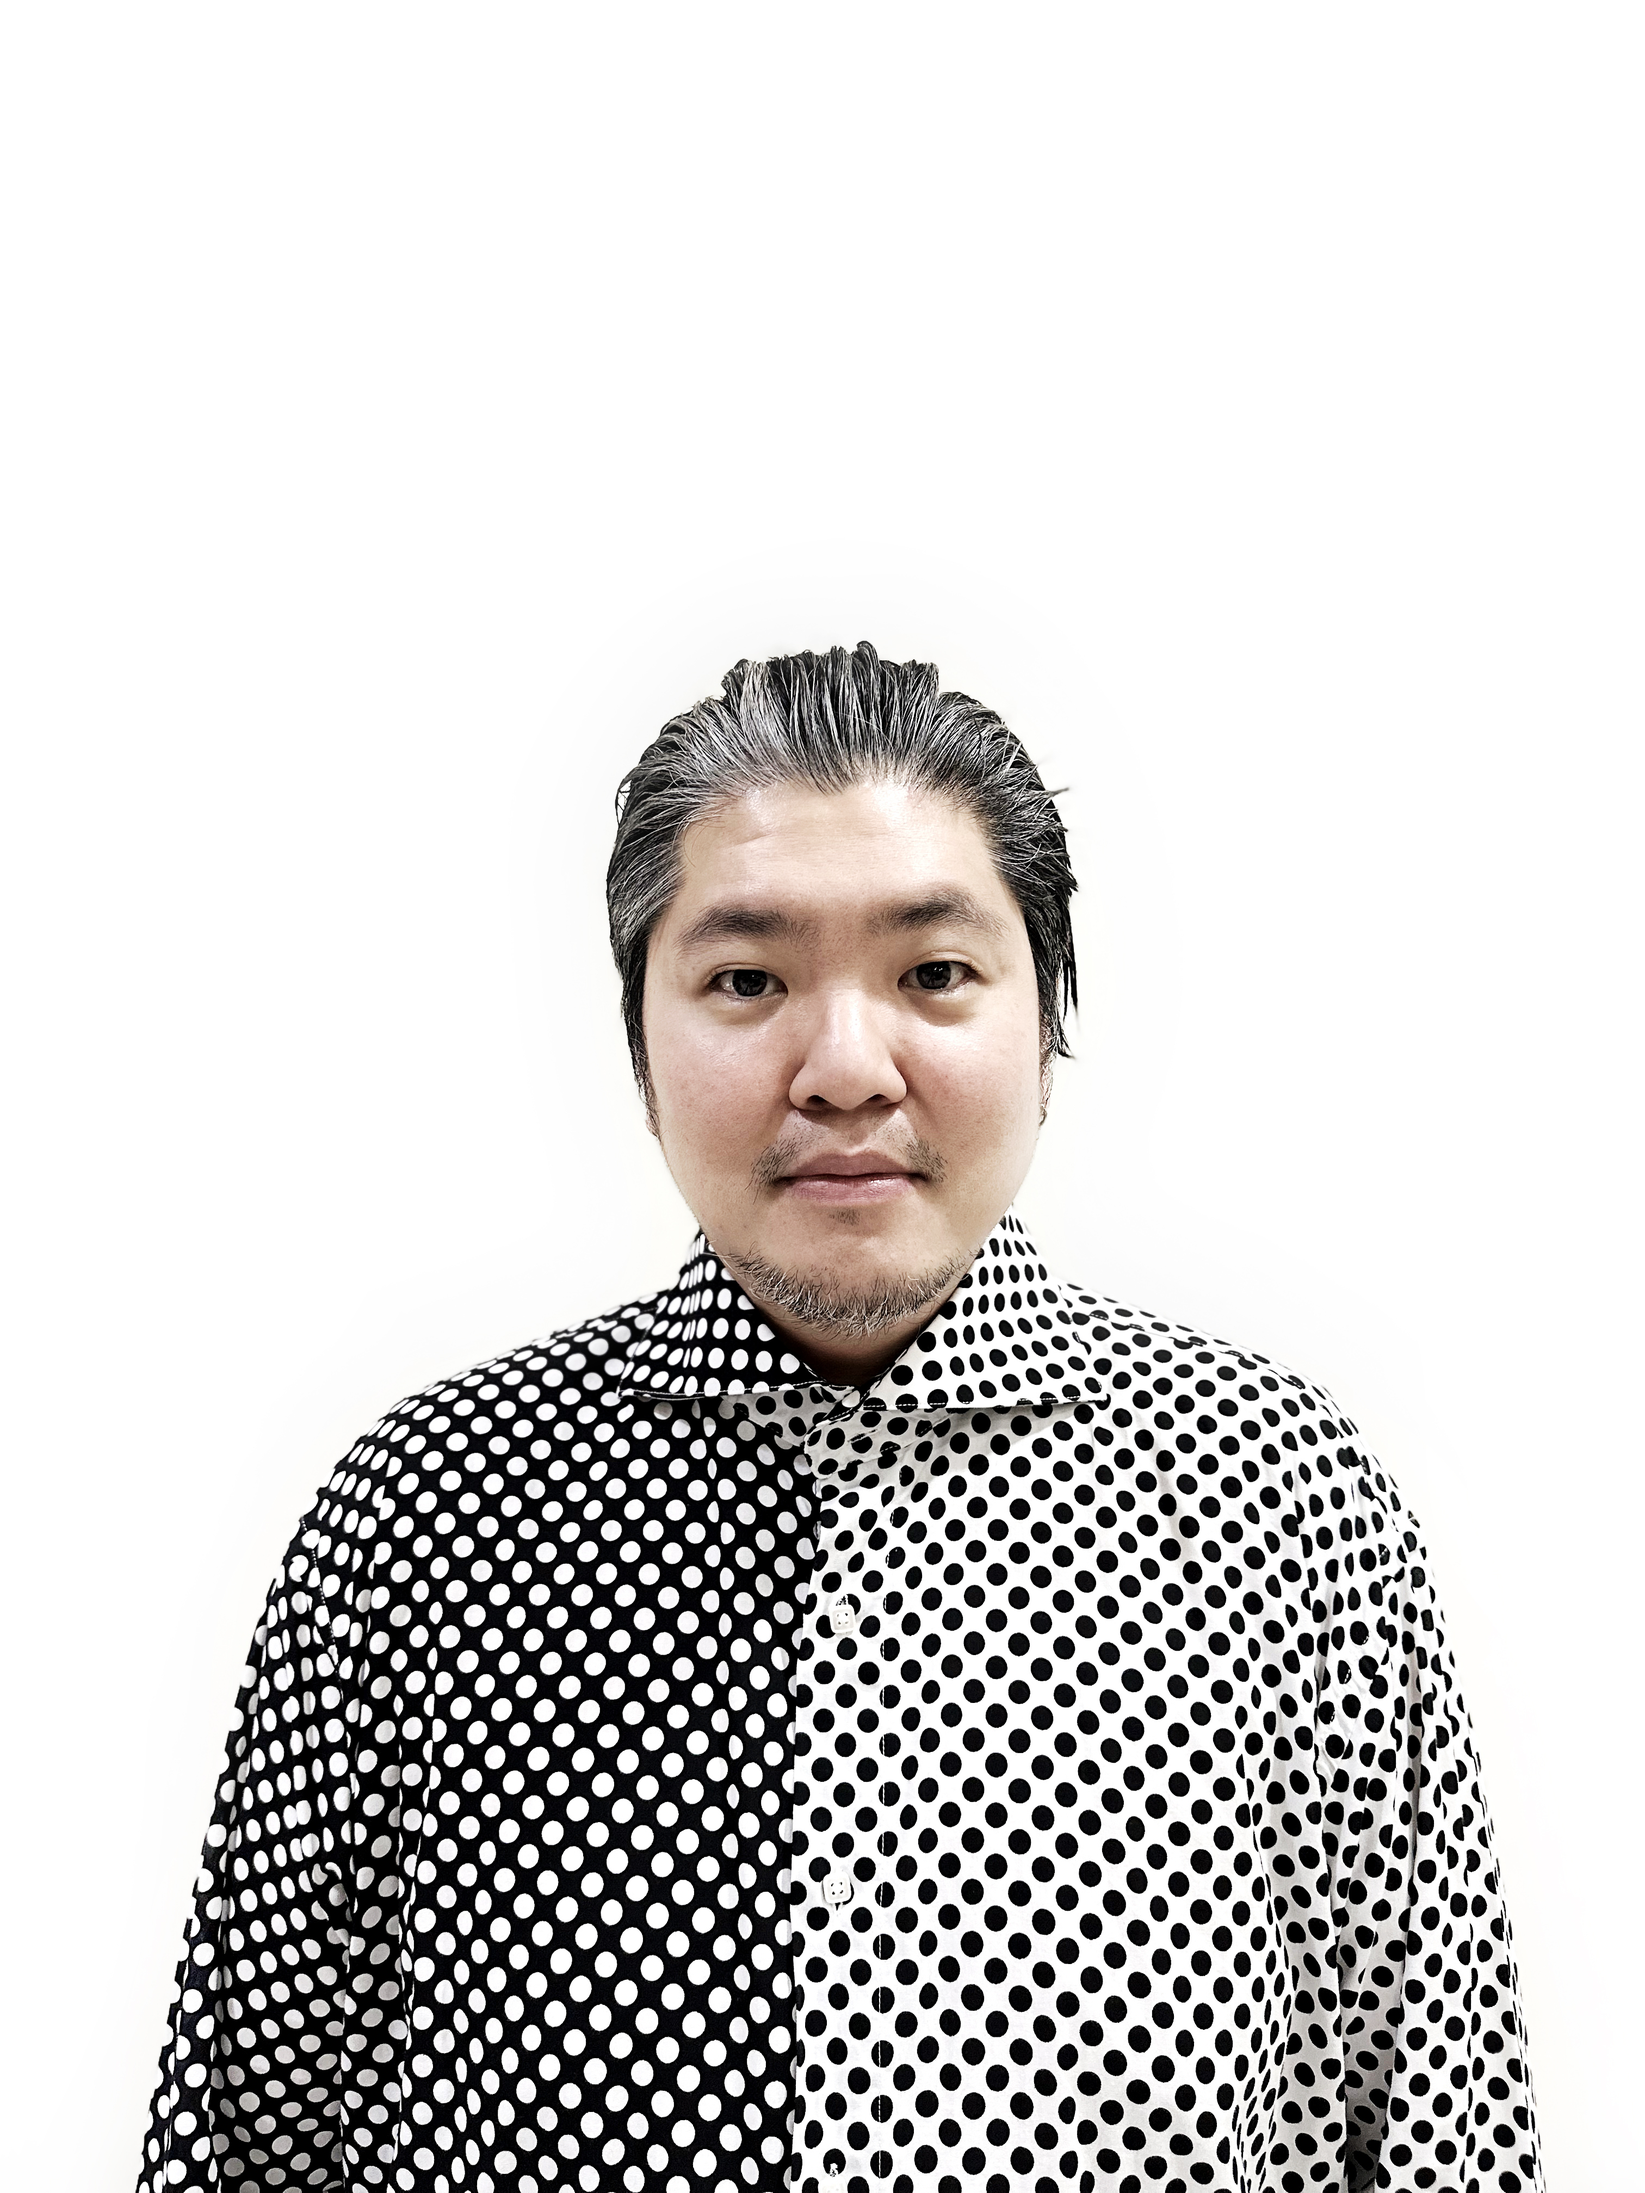
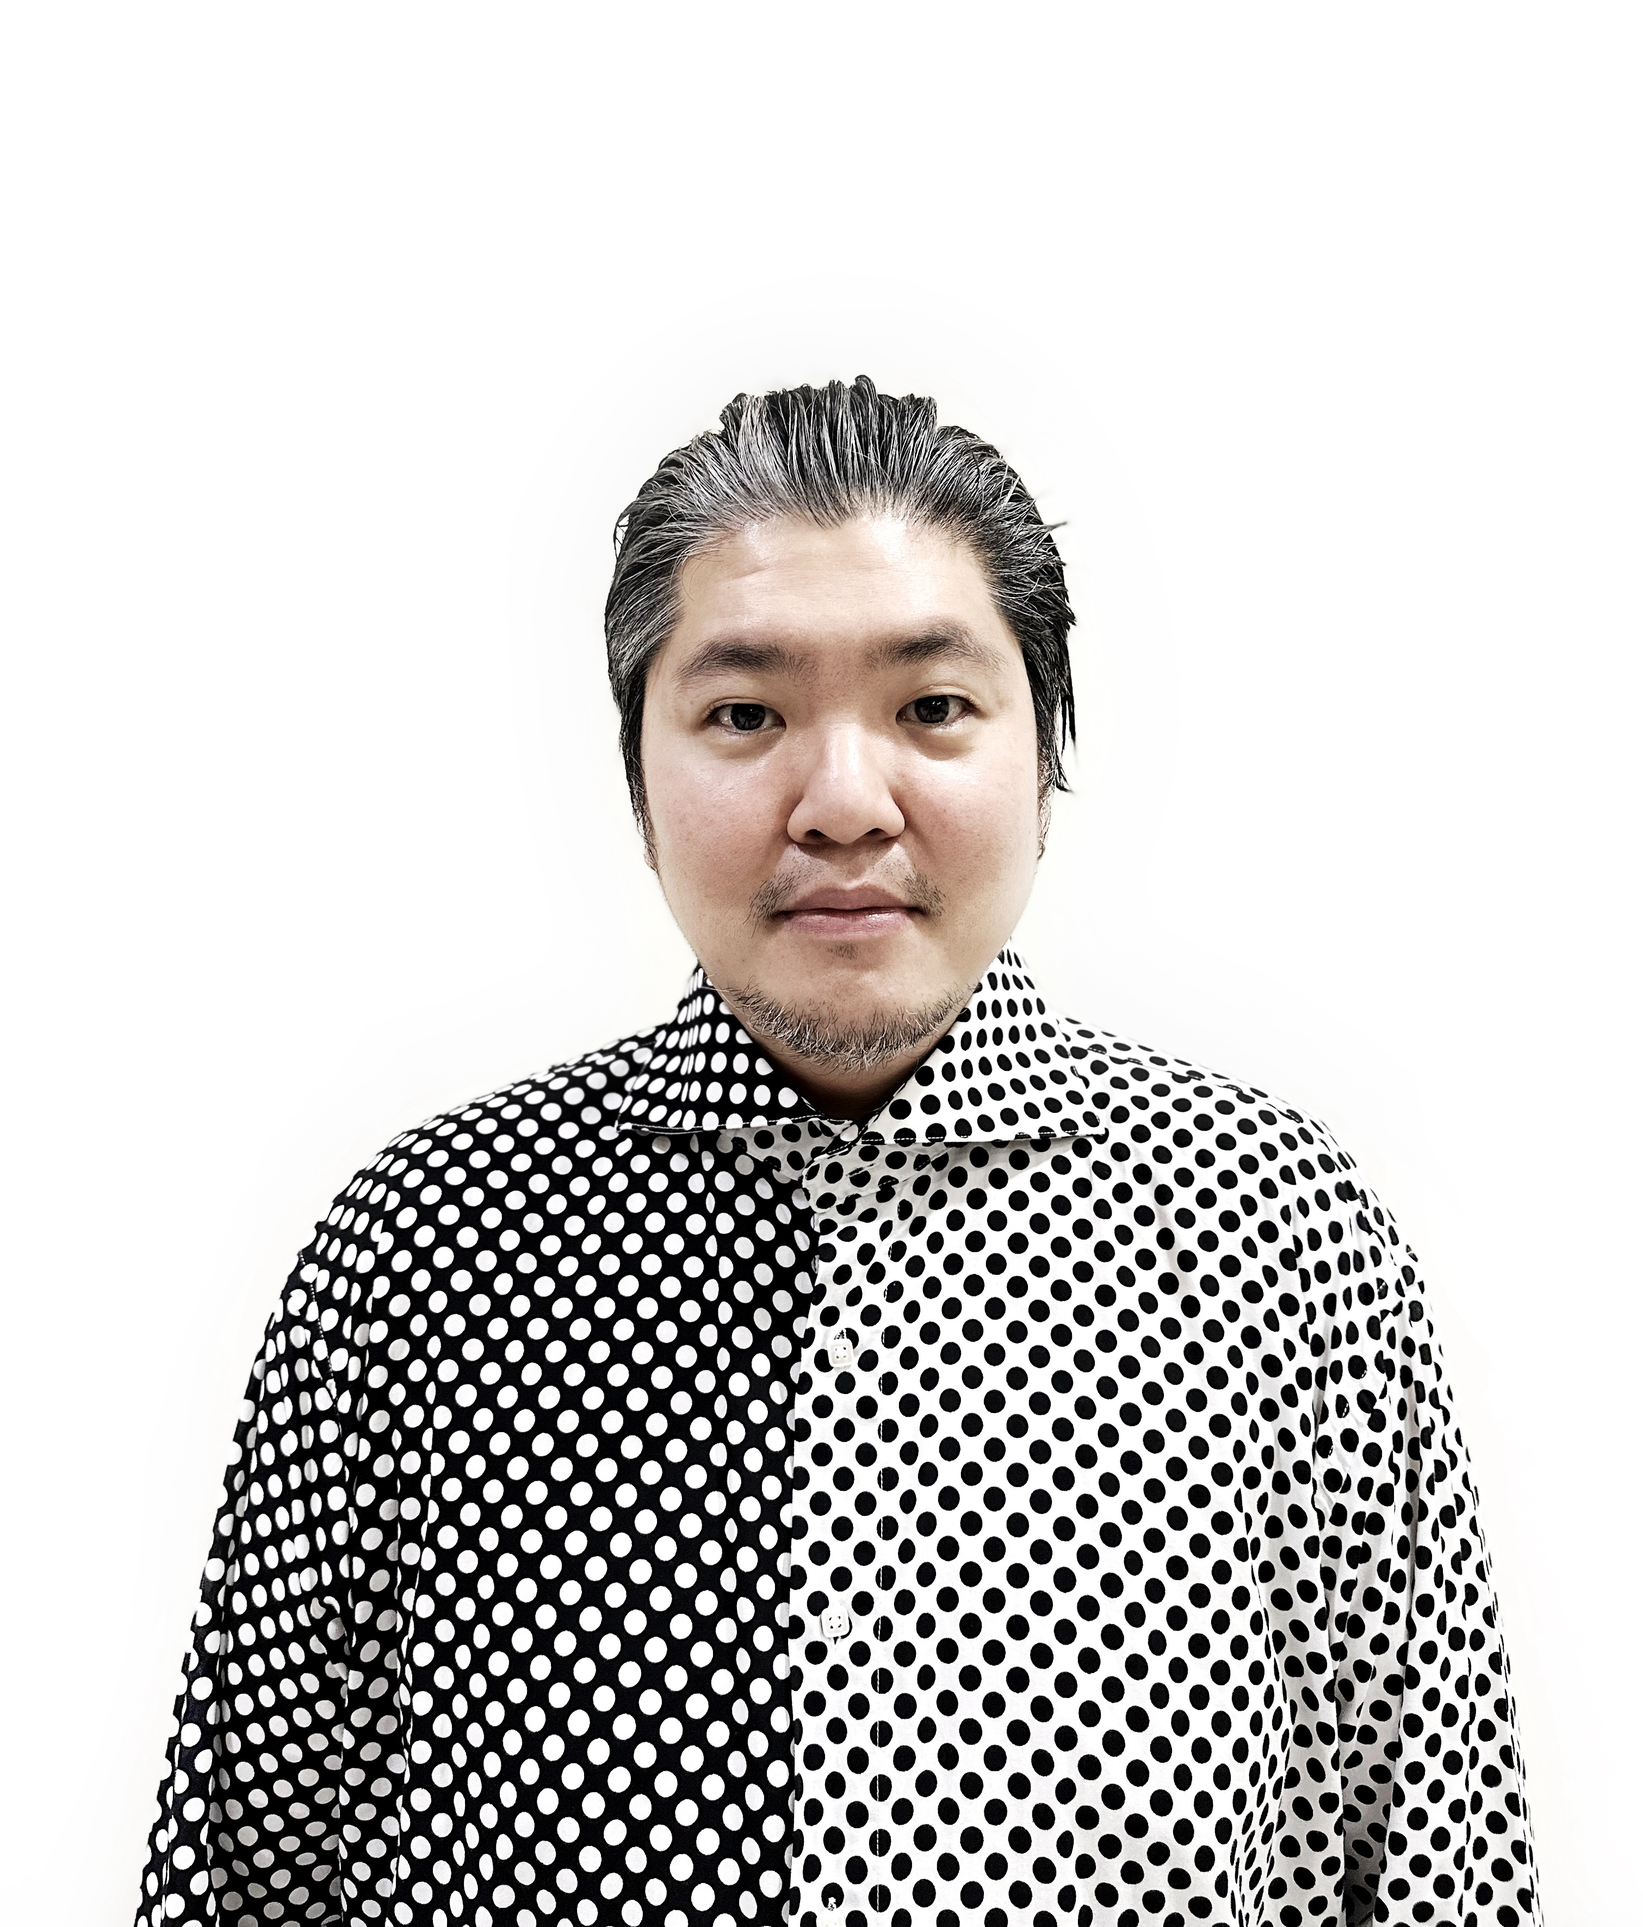
lasood

Changed region(s): [[0.0622, 0.1863, 0.9335, 1.0]]

diff --git a/Wansani.html b/Wansani.html
@@ -155,47 +155,63 @@
       </div>
       
       
-      <div class="dataartist mb-5" id="box1_dataartist">
+     <div class="dataartist mb-5">
+
+      <div class="container">
         <div class="row">
           <div class="col-md-6 firstcol d-flex justify-content-center">
-            <img src="./images/creativework_visual/creator_no2/GOLF6474-2 - Wansani Krachangyut.jpg" class="img-fluid imageartists">
+            <img src="./images/creativework_visual/creator_no2/GOLF6474-2 - Wansani Krachangyut.jpg" class="img-fluid imageartists" style="">
           </div>
-          <!-- Column 2: ส่วนที่ต้องการให้เลื่อนได้ -->
-          <div class="col-md-6 secondcol">
-            <div class="row artistname">
+          <div class="col-md-6">
+            <div class="artistname ">
               <p class="firstname">"Wansani<hr class="custom-hr"></p>
               <p class="lastname">Krachangyut"</p>
-              
             </div>
-            <p >Visual arts works in contemporary media : Please submits</p>
-            <p >Srinakharinwirot University</p>
-            <p >Thailand</p>
-
+              <p >Visual arts works in contemporary media</p>
+              <p >Srinakharinwirot University</p>
+              <p >Thailand</p>
+            
           </div>
         </div>
+        <hr style="opacity: 1; color: #0F0D0D;">
       </div>
+      
+     </div>
+    
 
-      <div class="container mb-5 " data-aos="fade-right"  data-aos-duration="2000" id="creativetext2">
+     <div class="container videointroduce d-flex justify-content-end">
+<!-- <img src="./images/line2.png" class="img-fluid img-background2" alt="Background Image2"> -->
+          <div class="col-md-6 mb-5  justify-content-center">
+            <!-- <div class="artistname ">
+              <p class="firstname">"Video<hr class="custom-hr"></p>
+              <p class="lastname">Presentation"</p>
+            </div> -->
+          </div>
+          <div class="col-md-6 mb-5  justify-content-center">
+              <video width="100%" height="100%" controls>
+              <source src="./images/creativework_visual/creator_no2/video8813586708 - Wansani Krachangyut.mp4" type="video/mp4">
+              </video>
+          </div>
+        </div>
+
+      <div class="artwork p-5" data-aos="fade-up" data-aos-duration="2000">
         <div class="col-md-12">
           <p class="textstyle1">CREATIVE WORK.<hr class="custom-hr"></p>
           <p class="textstyle2">"UnseenSena"</p>
         </div>
-      </div>
-
-      <div class="artwork p-5" data-aos="fade-up" data-aos-duration="2000">
         <div class="row justify-content-center">
-            <div class="col-md-8 d-flex justify-content-center">
-                    <!-- <div class="col-md-12 d-flex justify-content-center">
+            <div class="col-md-7 d-flex justify-content-center">
+                    <div class="col-md-12 d-flex justify-content-center">
                         <video width="100%" height="100%" controls>
                         <source src="./images/creativework_visual/creator_no2/test6 - Wansani Krachangyut (1).mp4" type="video/mp4">
                         </video>
-                    </div> -->
+                    </div>
             </div>
         </div>
     </div>
-    <div class="row justify-content-center" data-aos="fade-up" data-aos-duration="2000">
-    <div class="col-md-8 pt-5">
-            <!-- <h2>""</h2> -->
+    
+    <div class="container justify-content-center d-flex" >
+    <div class="col-md-7 pt-5  justify-content-center" data-aos="fade-up" data-aos-duration="2000">
             <br>
             <p style="text-indent: 2.5rem">Media Communication Design is a design of media that provides focused
                 information and knowledge to media consumers. Creative media communication
@@ -223,9 +239,8 @@
                 to generate income locally through the Office of the National Economic and Social
                 Development Council.</p>
                 <br>
-
           </div>
-        </div>
+      </div>
 
     <div class="go-to-top" id="goToTop">
               <a href="#">

diff --git a/Kitikoon.html b/Kitikoon.html
@@ -165,33 +165,39 @@
       
       
       <div class="dataartist mb-5" id="box1_dataartist">
-        <div class="row">
-          <div class="col-md-6 firstcol d-flex justify-content-center">
-            <img src="./images/creativework_visual/creator_no1/3_Kitikoon - Kitikoon Worrasorratorn.jpg" class="img-fluid imageartists">
-          </div>
-          <!-- Column 2: ส่วนที่ต้องการให้เลื่อนได้ -->
-          <div class="col-md-6 secondcol">
-            <div class="row artistname">
-              <p class="firstname">"Kitikoon<hr class="custom-hr"></p>
-              <p class="lastname">Worrasorratorn"</p>
+        <div class="container">
+          <div class="row">
+            <div class="col-md-6 firstcol d-flex justify-content-center">
+              <img src="./images/creativework_visual/creator_no1/3_Kitikoon - Kitikoon Worrasorratorn.jpg" class="img-fluid imageartists" style="">
+            </div>
+            <div class="col-md-6">
+              <div class="artistname ">
+                <p class="firstname">"Kitikoon<hr class="custom-hr"></p>
+                <p class="lastname">Worrasorratorn"</p>
+              </div>
+              <p >Product design: Jewelry design, Fashion design, Packaging design</p>
+              <p >Srinakharinwirot University</p>
+              <p >Thailand</p>
               
             </div>
-            <p >Product design: Jewelry design, Fashion design, Packaging design</p>
-            <p >Srinakharinwirot University</p>
-            <p >Thailand</p>
-
           </div>
+          <!-- <hr style="opacity: 1; color: #0F0D0D;"> -->
         </div>
+      
       </div>
 
-      <div class="container mb-5 " data-aos="fade-right"  data-aos-duration="2000" id="creativetext2">
+      <!-- <div class="container mb-5 " data-aos="fade-right"  data-aos-duration="2000" id="creativetext2">
         <div class="col-md-12">
           <p class="textstyle1">CREATIVE WORK.<hr class="custom-hr"></p>
-          <!-- <p class="textstyle2">"VISUAL ART"</p> -->
+          <p class="textstyle2">"Urban Squirrel ShelterT"</p>
         </div>
-      </div>
+      </div> -->
 
       <div class="artwork p-5" data-aos="fade-up" data-aos-duration="2000">
+        <div class="col-md-12">
+          <p class="textstyle1">CREATIVE WORK.<hr class="custom-hr"></p>
+          <p class="textstyle2">"Urban Squirrel ShelterT"</p>
+        </div>
         <div class="row">
             <div class="col-md-6 d-flex justify-content-center">
               <div id="carouselExampleIndicators" class="carousel slide">
@@ -230,7 +236,7 @@
               </div>
             </div>
             <div class="col-md-6 pt-5 justify-content-center">
-              <h2>"Urban Squirrel Shelter"</h2>
+              <!-- <h2>"Urban Squirrel Shelter"</h2> -->
               <br>
                 <p style="text-indent: 2.5rem">The essence of Bruno Latour's actor-network theory is that the world's things
                   are connected web of relations, where they all have the status of actors that can

diff --git a/src/style.css b/src/style.css
@@ -884,20 +884,30 @@ transition: all 0.35s;
 /* GALLERY */
 
 /* Artists */
-.imageartists {
-  width: 350px;
-  justify-content: center;
+.imageartists  {
+
+    aspect-ratio: 1;
+    object-fit: cover;
+    width: 60%;
+    max-height: 80svh;
+    display: block;
+    object-position: center top; /* ปรับตำแหน่งของรูปภาพให้อยู่ข้างบน */
+
 }
 .artistname {
   font-style: oblique 90deg;
   font-family: 'Adam';
-  font-size: 60px;
+  font-size: 50px;
   font-weight: bold;
   color: #0F0D0D;
-  letter-spacing: 8px;
+  letter-spacing: 7px;
   -webkit-text-stroke: 1px;
   text-shadow: 2px 3px 2px rgba(0, 0, 0, 0.3); 
 }
+/* .artistname p {
+  margin-bottom: -10px; 
+  margin-top: 0px; 
+} */
 .custom-hr {
     display: inline-block; 
     border: none;
@@ -905,12 +915,14 @@ transition: all 0.35s;
     opacity: 1;
     width: calc(30% - 10px); 
   }
-/* .firstname {
+.firstname {
  margin-right: 50px;
+ margin-bottom: -20px; 
 }
 .lastname {
   margin-left: 50px;
-} */
+  margin-top: -20px; 
+}
 
 /* .secondcol {
   overflow-y: auto;
@@ -965,10 +977,10 @@ transition: all 0.35s;
   }
   .firstname {
   padding-top: 30px;
-   margin-left: 50px;
+   /* margin-left: 50px; */
   }
   .lastname {
-    margin-left: 120px;
+    /* margin-left: 120px; */
   }
   
 
